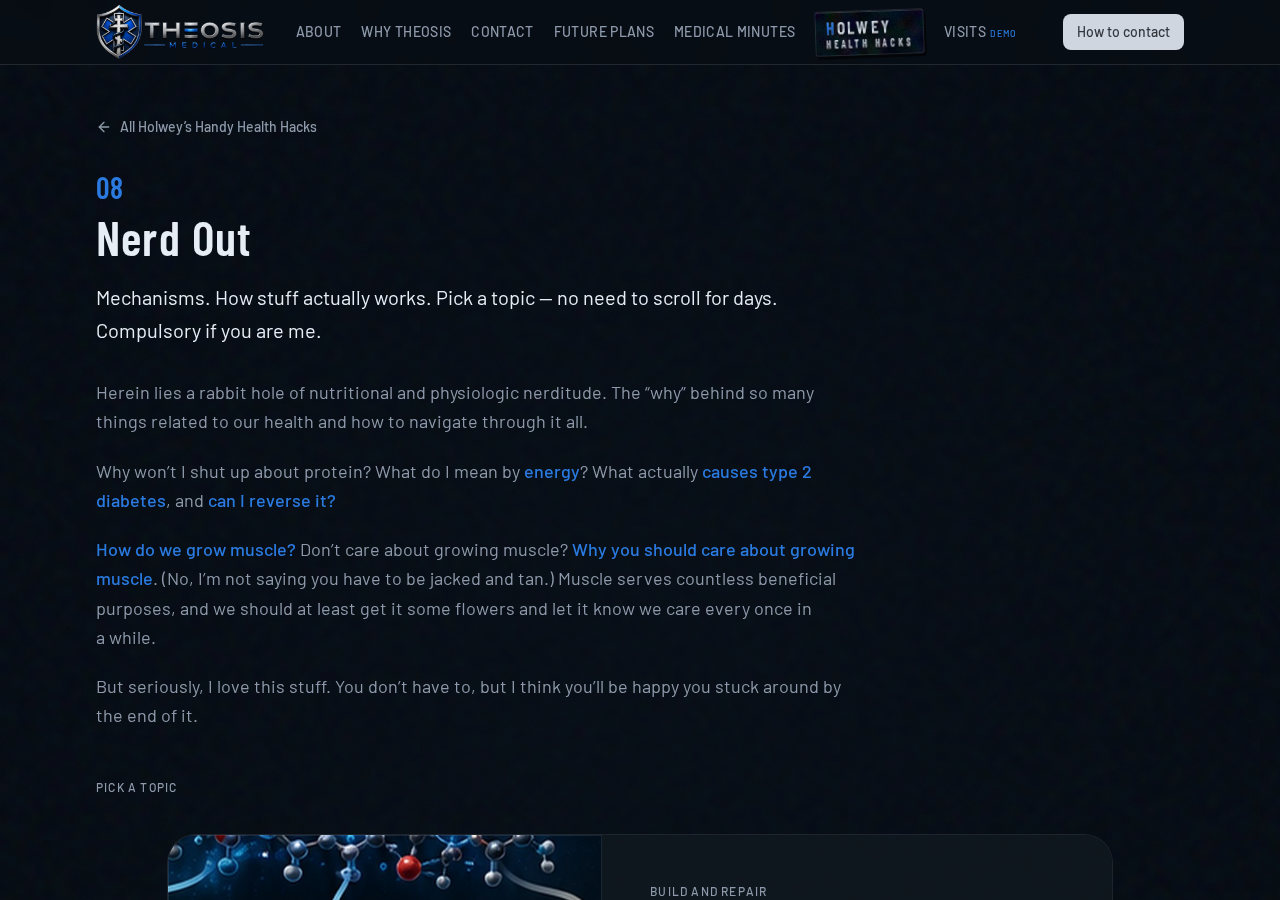
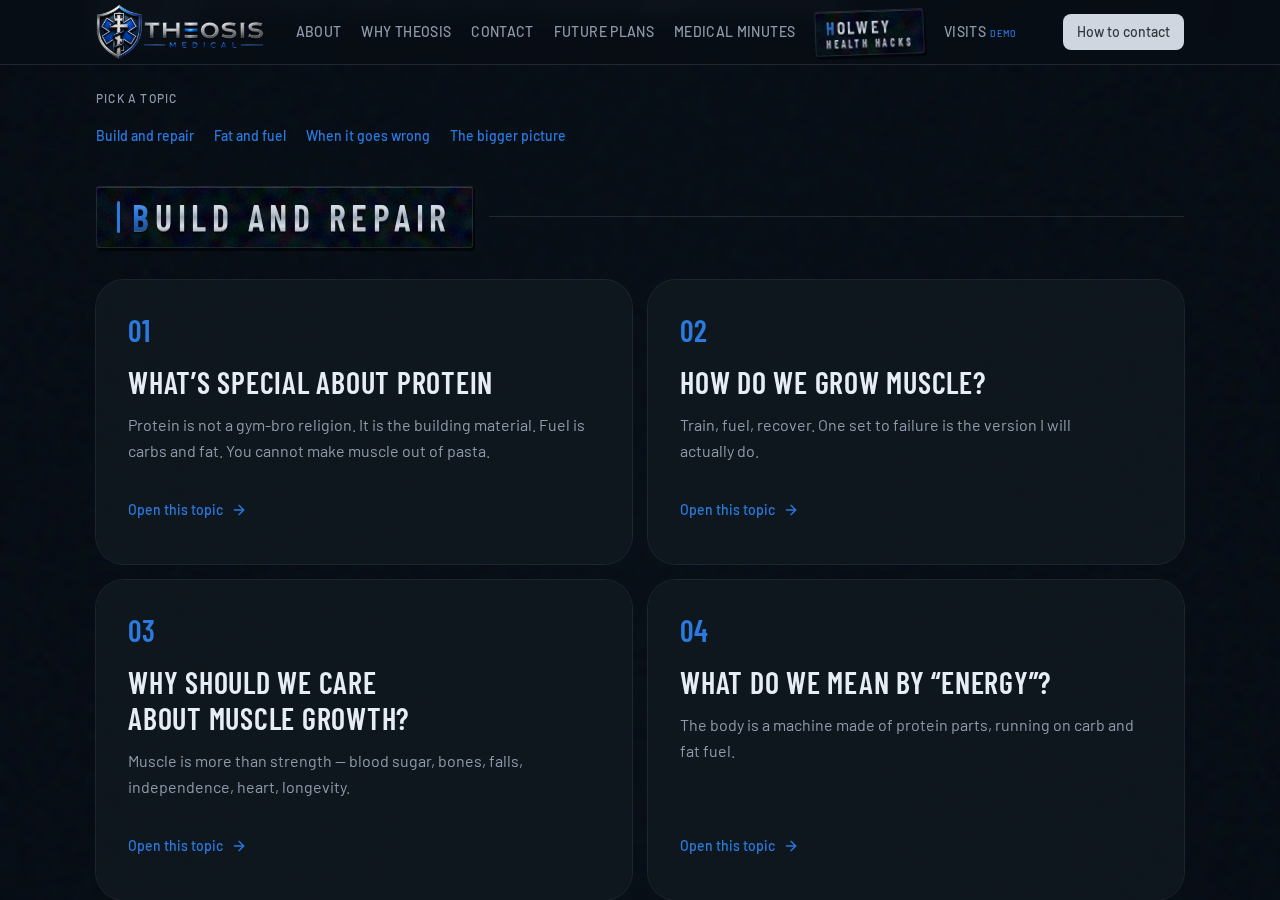
Export from Grok

diff --git a/src/lib/hacks.ts b/src/lib/hacks.ts
@@ -148,11 +148,8 @@ paragraphs: [
     slug: "helpful-videos",
     n: "09",
     title: "Helpful Videos",
-    lede: "The YouTube I am actually using as references. Same clips also live on the pages they belong to.",
-paragraphs: [
-      "This is not a channel. It is a pile of short videos behind the hacks — Hormozi for the starting math and the grocery-aisle recipes, Norton for sweeteners, Naiman for what actually causes type 2 diabetes.",
-      "I will add to this as I steal more. Watch them here, or stay on the hack and watch them there.",
-    ],
+    lede: "Here is a repository for the videos I think are helpful for being successful in health education and management. I may have used them elsewhere already but will consolidate them all here if I can.",
+    paragraphs: [],
   },
   {
     slug: "reading-list",
@@ -396,6 +393,26 @@ export const nerdTopics = [
       "Train, fuel, recover, grow. One set to failure is the version I will actually do. References are on the poster.",
   },
   {
+    id: "muscle-speed",
+    title: "How fast can you build muscle?",
+    lede: "Muscle grows slowly — one protein at a time. The pump is not new muscle.",
+    paragraphs: [
+      "After you lift, the fiber is under tension, sensors turn that force into a growth signal, blood delivers amino acids from the protein you ate, and ribosomes assemble those amino acids into more contractile protein. Synthesis stays up for roughly 24–48 hours. Repeat that enough times and the fibers get thicker. That is hypertrophy. It is not a overnight remodel.",
+      "The honest timeline: the pump right after a session is mostly fluid. Strength in the first 1–4 weeks is often skill and nervous-system coordination. Measurable size can start around 6–8 weeks. Visible change is more like 8–12+ weeks. The body you actually want is months to years of small cycles stacked on each other.",
+      "You do not have to destroy the muscle to build it. Soreness can happen. It is not the goal. Mechanical tension plus repeated protein synthesis is the goal.",
+      "Stack the odds the same way as everywhere else on this site: progressive resistance, hard sets near failure, train consistently, a gram of protein per pound of body weight, enough calories, sleep. Newer lifters grow faster. A deficit, older age, and inconsistent training all slow it down. Individual responses vary. Nobody is a monthly transformation except the ads.",
+    ],
+    image: "/images/nerd-muscle-speed.png",
+    imageAlt:
+      "Infographic: how fast you can build muscle. Tension, signal, deliver, build, repeat. Honest timeline from the pump to months of real growth. You do not have to destroy muscle to build it.",
+    imageCredit: "Muscle grows slowly — one protein at a time. Individual responses vary widely.",
+    seeAlso: {
+      hash: "muscle",
+      label: "How do we grow muscle?",
+      note: "The minimum-effective-dose version I will actually do.",
+    },
+  },
+  {
     id: "why-muscle",
     title: "Why should we care about muscle growth?",
     lede: "Muscle is more than strength — blood sugar, bones, falls, independence, heart, longevity.",
@@ -594,29 +611,21 @@ export const nerdGroups = [
   {
     id: "machine",
     title: "Build and repair",
-    mark: ["Build and", "repair"] as const,
-    lede: "Protein first. Muscle is the point. Energy is what the parts run on.",
-    topicIds: ["protein", "muscle", "why-muscle", "energy"],
+    topicIds: ["protein", "muscle", "muscle-speed", "why-muscle"],
   },
   {
     id: "fuel",
     title: "Fat and fuel",
-    mark: ["Fat and", "fuel"] as const,
-    lede: "What the body burns, where carbon goes, and why the total still wins.",
-    topicIds: ["burning-fat", "fat-burn-limit", "carbon", "how-much"],
+    topicIds: ["energy", "burning-fat", "fat-burn-limit", "carbon", "how-much"],
   },
   {
     id: "overflow",
     title: "When it goes wrong",
-    mark: ["When it", "goes wrong"] as const,
-    lede: "Overflow past your personal fat threshold — blood sugar, A1c, and cholesterol.",
     topicIds: ["personal-fat-threshold", "a1c", "reverse-diabetes", "cholesterol"],
   },
   {
     id: "bigger",
     title: "The bigger picture",
-    mark: ["The bigger", "picture"] as const,
-    lede: "Food becomes you. The atoms were stars first.",
     topicIds: ["you-are-what-you-eat", "stardust"],
   },
 ] as const;

diff --git a/src/components/site/holwey-hacks-mark.tsx b/src/components/site/holwey-hacks-mark.tsx
@@ -1,7 +1,7 @@
 import { cn } from "@/lib/utils";
 
 const plaqueShell =
-  "relative inline-flex -rotate-2 flex-col items-start justify-center overflow-hidden rounded-[3px] border border-white/10 leading-none shadow-[2px_3px_0_0_rgb(0_0_0_/_0.55),inset_0_1px_0_rgb(255_255_255_/_0.16)]";
+  "relative inline-flex items-center overflow-hidden rounded-[3px] border border-white/10 leading-none shadow-[2px_3px_0_0_rgb(0_0_0_/_0.55),inset_0_1px_0_rgb(255_255_255_/_0.16)]";
 
 const plaqueBg = {
   backgroundColor: "rgb(8 13 20 / 0.72)",
@@ -14,7 +14,7 @@ export function HolweyHacksMark({ className }: { className?: string }) {
     <span
       className={cn(
         plaqueShell,
-        "px-2.5 py-1.5 transition-[transform,box-shadow,background-color,border-color] duration-150",
+        "-rotate-2 flex-col items-start justify-center px-2.5 py-1.5 transition-[transform,box-shadow,background-color,border-color] duration-150",
         "group-hover:rotate-0 group-hover:border-accent group-hover:bg-accent group-hover:shadow-[2px_3px_0_0_rgb(0_0_0_/_0.3)]",
         className,
       )}
@@ -36,29 +36,17 @@ export function HolweyHacksMark({ className }: { className?: string }) {
   );
 }
 
-export function HacksPlaque({
-  line1,
-  line2,
-  className,
-}: {
-  line1: string;
-  line2?: string;
-  className?: string;
-}) {
+export function HacksPlaque({ title, className }: { title: string; className?: string }) {
   return (
-    <span
-      className={cn(plaqueShell, "-rotate-1 px-4 py-3 sm:px-5 sm:py-3.5", className)}
-      style={plaqueBg}
-    >
-      <span className="relative font-display text-[28px] font-semibold tracking-[0.12em] uppercase sm:text-[36px]">
-        <span className="hh-metal-blue">{line1.slice(0, 1)}</span>
-        <span className="hh-metal">{line1.slice(1)}</span>
-      </span>
-      {line2 ? (
-        <span className="hh-metal relative mt-1 font-display text-[28px] font-semibold tracking-[0.12em] uppercase sm:text-[36px]">
-          {line2}
+    <span className={cn("flex w-full items-center gap-4", className)}>
+      <span className={cn(plaqueShell, "gap-3 px-4 py-2.5 sm:px-5 sm:py-3")} style={plaqueBg}>
+        <span className="h-6 w-[3px] shrink-0 rounded-full bg-accent sm:h-8" aria-hidden />
+        <span className="relative whitespace-nowrap font-display text-[22px] font-semibold tracking-[0.16em] uppercase sm:text-[32px] lg:text-[36px]">
+          <span className="hh-metal-blue">{title.slice(0, 1)}</span>
+          <span className="hh-metal">{title.slice(1)}</span>
         </span>
-      ) : null}
+      </span>
+      <span className="hidden h-px min-w-8 flex-1 bg-border sm:block" aria-hidden />
     </span>
   );
 }

diff --git a/src/lib/minutes.ts b/src/lib/minutes.ts
@@ -1,4 +1,10 @@
-export type MinuteSlug = "eustachian-tube" | "low-back-pain" | "fever" | "cough" | "sprain-strain";
+export type MinuteSlug =
+  | "eustachian-tube"
+  | "low-back-pain"
+  | "fever"
+  | "cough"
+  | "sprain-strain"
+  | "ct";
 
 export type Minute = {
   slug: MinuteSlug;
@@ -97,6 +103,21 @@ export const minutes: Minute[] = [
     image: "/images/minutes-sprain.png",
     imageAlt:
       "Infographic: sprain versus strain. Muscle strain, tendon strain, and ligament sprain, why collagen healing takes weeks, what actually helps, and red flags that need an exam.",
+  },
+  {
+    slug: "ct",
+    n: "06",
+    title: "Why We Don't CT Everyone",
+    lede: "A powerful, sometimes lifesaving tool — used thoughtfully.",
+    paragraphs: [
+      "A CT takes many X-rays from different angles and builds a detailed picture. Those X-rays are ionizing radiation — enough energy to alter atoms. That is not the same kind of radiation as Wi-Fi or a cell phone. One scan is a small added risk, not zero. Dose, repeats, age, sex, body area, and technique all matter.",
+      "Most of the time the DNA damage is repaired. Sometimes the cell dies. Very rarely a repair mistake remains and may contribute to cancer years later. Children and younger adults have more years ahead. Women have a somewhat higher risk for some radiation-linked cancers. Typical dose in perspective: a chest X-ray is about a few days of natural background. A head CT is months. An abdomen and pelvis CT can be a few years of background in one sitting.",
+      "“Just to look” can backfire. Radiation adds up. Harmless spots trigger more tests. We find things that never would have caused harm. A clean scan does not rule out every future problem, and whole-body CT screening is not recommended for healthy people without symptoms.",
+      "The best scan is the one that changes care. Scan when the answer could change diagnosis or treatment. Pause when it will not. Ask for ultrasound or MRI when they can answer the question without ionizing radiation. Right test, right patient, lowest reasonable dose. If the benefit outweighs the small risk, CT is often absolutely worth it.",
+    ],
+    image: "/images/minutes-ct.png",
+    imageAlt:
+      "Infographic: why we don’t CT everyone. What a CT does, ionizing radiation and DNA, dose in perspective, who needs extra care, why scanning just to look can backfire, and when CT is worth it.",
   },
 ];
 

diff --git a/src/routes/hacks/nerd-out.index.tsx b/src/routes/hacks/nerd-out.index.tsx
@@ -62,10 +62,8 @@ function NerdOutHub() {
           {nerdGroups.map((group) => (
             <section key={group.id} id={group.id} className="scroll-mt-24">
               <h2>
-                <HacksPlaque line1={group.mark[0]} line2={group.mark[1]} />
-                <span className="sr-only">{group.title}</span>
+                <HacksPlaque title={group.title} />
               </h2>
-              <p className="mt-4 max-w-3xl text-lg leading-relaxed text-muted">{group.lede}</p>
               <div className="mt-8 grid gap-4 md:grid-cols-2">
                 {group.topicIds.map((id) => {
                   const topic = nerdTopics.find((t) => t.id === id);

diff --git a/src/routes/minutes/index.tsx b/src/routes/minutes/index.tsx
@@ -63,7 +63,7 @@ function MinutesHub() {
             href="/#suggest"
             className="group flex flex-col rounded-xl border border-dashed border-border-strong bg-surface/60 p-6 shadow-border transition-colors duration-150 hover:bg-fg/5 sm:p-8"
           >
-            <p className="font-display text-3xl font-semibold text-muted">06+</p>
+            <p className="font-display text-3xl font-semibold text-muted">07+</p>
             <h2 className="mt-4 font-display text-3xl font-semibold tracking-wide uppercase">
               More to come
             </h2>
